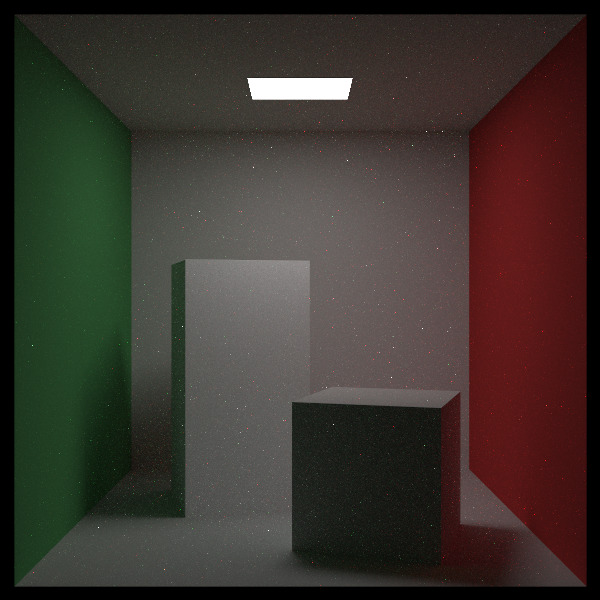
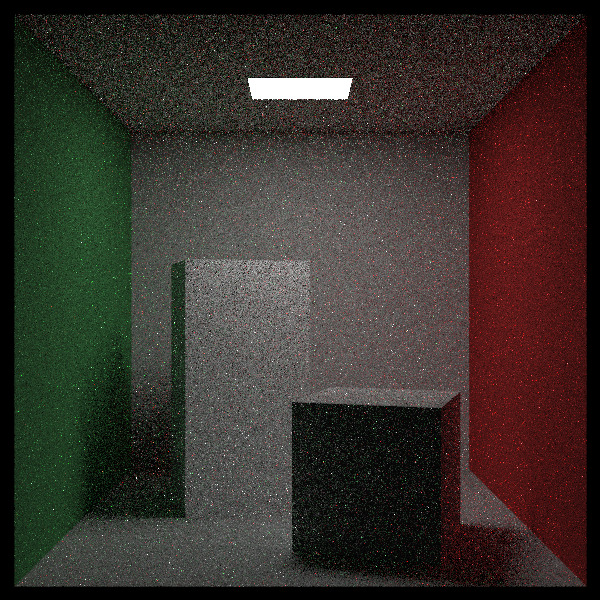
Updates from progression 3, 2024-0722

Changed region(s): [[0.03, 0.0, 0.99, 0.99], [0.15, 0.27, 0.18, 0.3], [0.12, 0.24, 0.15, 0.27]]

diff --git a/books/RayTracingTheRestOfYourLife.html b/books/RayTracingTheRestOfYourLife.html
@@ -1826,7 +1826,7 @@ You should get a very similar result to before, only with slightly more noise, i
 see.
 
   ![<span class='num'>Image 4:</span> Cornell box, with imperfect PDF
-  ](../images/img-3.04-cornell-refactor2.jpg class='pixel')
+  ](../images/img-3.04-cornell-imperfect.jpg class='pixel')
 
 Make sure to return the PDF to the scattering PDF.
 
@@ -1878,7 +1878,6 @@ PDF:
             return true;
         }
 
-
         double scattering_pdf(const ray& r_in, const hit_record& rec, const ray& scattered)
         const override {
     ~~~~~~~~~~~~~~~~~~~~~~~~~~~~~~~~~~~~~~~~~~~~~~~~~~~~~~~~~~~~~~~~~~~~~~~~~~~~~~~~~~ C++ highlight
@@ -1895,7 +1894,7 @@ our uniform PDF that was an imperfect match for Lambertian diffuse is actually a
 our uniform hemispherical diffuse. When rendering, we should get a slightly different image.
 
   ![<span class='num'>Image 5:</span> Cornell box, with uniform hemispherical sampling
-  ](../images/img-3.04-cornell-refactor2.jpg class='pixel')
+  ](../images/img-3.05-cornell-uniform-hemi.jpg class='pixel')
 
 It’s pretty close to our old picture, but there are differences that are not just noise. The front
 of the tall box is much more uniform in color. If you aren't sure what the best sampling pattern for
@@ -2409,7 +2408,7 @@ And here we add the accompanying changes to the camera class:
             ray scattered;
             color attenuation;
     ~~~~~~~~~~~~~~~~~~~~~~~~~~~~~~~~~~~~~~~~~~~~~~~~~~~~~~~~~~~~~~~~~~~~~~~~~~~~~~~~~~ C++ highlight
-            double pdf_value; // TODO: What are we supposed to do with the returned PDF?
+            double pdf_value;
     ~~~~~~~~~~~~~~~~~~~~~~~~~~~~~~~~~~~~~~~~~~~~~~~~~~~~~~~~~~~~~~~~~~~~~~~~~~~~~~~~~~~~~~~~~~~~ C++
             color color_from_emission = rec.mat->emitted(rec.u, rec.v, rec.p);
 
@@ -2418,6 +2417,11 @@ And here we add the accompanying changes to the camera class:
             if (!rec.mat->scatter(r, rec, attenuation, scattered, pdf_value))
     ~~~~~~~~~~~~~~~~~~~~~~~~~~~~~~~~~~~~~~~~~~~~~~~~~~~~~~~~~~~~~~~~~~~~~~~~~~~~~~~~~~~~~~~~~~~~ C++
                 return color_from_emission;
+
+            double scattering_pdf = rec.mat->scattering_pdf(r, rec, scattered);
+    ~~~~~~~~~~~~~~~~~~~~~~~~~~~~~~~~~~~~~~~~~~~~~~~~~~~~~~~~~~~~~~~~~~~~~~~~~~~~~~~~~~ C++ highlight
+            pdf_value = scattering_pdf;
+    ~~~~~~~~~~~~~~~~~~~~~~~~~~~~~~~~~~~~~~~~~~~~~~~~~~~~~~~~~~~~~~~~~~~~~~~~~~~~~~~~~~~~~~~~~~~~ C++
 
             ...
         }
@@ -2550,7 +2554,7 @@ check that we got the math and concept right:
 
             ray scattered;
             color attenuation;
-            double pdf_value; // TODO: What are we supposed to do with the returned PDF?
+            double pdf_value;
             color color_from_emission = rec.mat->emitted(rec.u, rec.v, rec.p);
 
             if (!rec.mat->scatter(r, rec, attenuation, scattered, pdf_value))
@@ -2814,7 +2818,7 @@ We can try this cosine PDF in the `ray_color()` function:
 
             ray scattered;
             color attenuation;
-            double pdf_value; // TODO: What are we supposed to do with the returned PDF?
+            double pdf_value;
             color color_from_emission = rec.mat->emitted(r, rec, rec.u, rec.v, rec.p);
 
             if (!rec.mat->scatter(r, rec, attenuation, scattered, pdf_value))
@@ -2885,6 +2889,8 @@ Now we can try sampling directions toward a `hittable`, like the light.
 
     ...
 
+
+    ~~~~~~~~~~~~~~~~~~~~~~~~~~~~~~~~~~~~~~~~~~~~~~~~~~~~~~~~~~~~~~~~~~~~~~~~~~~~~~~~~~ C++ highlight
     class hittable_pdf : public pdf {
       public:
         hittable_pdf(const hittable& objects, const point3& origin)
@@ -3050,7 +3056,7 @@ Add a `lights` parameter to the camera `render()` function:
 
             ray scattered;
             color attenuation;
-            double pdf_value; // TODO: What are we supposed to do with the returned PDF?
+            double pdf_value;
             color color_from_emission = rec.mat->emitted(r, rec, rec.u, rec.v, rec.p);
 
             if (!rec.mat->scatter(r, rec, attenuation, scattered, pdf_value))
@@ -3058,7 +3064,7 @@ Add a `lights` parameter to the camera `render()` function:
 
 
     ~~~~~~~~~~~~~~~~~~~~~~~~~~~~~~~~~~~~~~~~~~~~~~~~~~~~~~~~~~~~~~~~~~~~~~~~~~~~~~~~~~ C++ highlight
-            hittable_pdf light_pdf(light_ptr, rec.p);
+            hittable_pdf light_pdf(lights, rec.p);
             scattered = ray(rec.p, light_pdf.generate(), r.time());
             pdf_value = light_pdf.value(scattered.direction());
     ~~~~~~~~~~~~~~~~~~~~~~~~~~~~~~~~~~~~~~~~~~~~~~~~~~~~~~~~~~~~~~~~~~~~~~~~~~~~~~~~~~~~~~~~~~~~ C++
@@ -3100,6 +3106,15 @@ Create a light in the middle of the ceiling:
     ~~~~~~~~~~~~~~~~~~~~~~~~~~~~~~~~~~~~~~~~~~~~~~~~~~~~~~~~~~~~~~~~~~~~~~~~~~~~~~~~~~~~~~~~~~~~ C++
 
         camera cam;
+
+        cam.aspect_ratio      = 1.0;
+        cam.image_width       = 600;
+    ~~~~~~~~~~~~~~~~~~~~~~~~~~~~~~~~~~~~~~~~~~~~~~~~~~~~~~~~~~~~~~~~~~~~~~~~~~~~~~~~~~ C++ highlight
+        cam.samples_per_pixel = 10;
+    ~~~~~~~~~~~~~~~~~~~~~~~~~~~~~~~~~~~~~~~~~~~~~~~~~~~~~~~~~~~~~~~~~~~~~~~~~~~~~~~~~~~~~~~~~~~~ C++
+        cam.max_depth         = 50;
+        cam.background        = color(0,0,0);
+
         ...
 
 
@@ -3219,7 +3234,7 @@ plug it into `ray_color()`:
 
 
     ~~~~~~~~~~~~~~~~~~~~~~~~~~~~~~~~~~~~~~~~~~~~~~~~~~~~~~~~~~~~~~~~~~~~~~~~~~~~~~~~~~ C++ highlight
-            auto p0 = make_shared<hittable_pdf>(light_ptr, rec.p);
+            auto p0 = make_shared<hittable_pdf>(lights, rec.p);
             auto p1 = make_shared<cosine_pdf>(rec.normal);
             mixture_pdf mixed_pdf(p0, p1);
 
@@ -3240,7 +3255,7 @@ plug it into `ray_color()`:
 </div>
 
 <div class='together'>
-1000 samples per pixel yields:
+Updating `main.cc` to 1000 samples per pixel (not listed) yields:
 
   ![<span class='num'>Image 11:</span> Cornell box, mixture density of cosine and light sampling
   ](../images/img-3.11-cosine-and-light.jpg class='pixel')
@@ -3326,6 +3341,15 @@ this ray is diffuse or specular. Fortunately, we have decided that we should onl
 
 <div class='together'>
 We can redesign `material` and stuff all the new arguments into a class like we did for `hittable`:
+
+    ~~~~~~~~~~~~~~~~~~~~~~~~~~~~~~~~~~~~~~~~~~~~~~~~~~~~~~~~~~~~~~~~~~~~~~~~~~~~~~~~~~~~~~~~~~~~ C++
+    #include "rtweekend.h"
+
+    #include "onb.h"
+    #include "texture.h"
+
+    class hit_record;
+
 
     ~~~~~~~~~~~~~~~~~~~~~~~~~~~~~~~~~~~~~~~~~~~~~~~~~~~~~~~~~~~~~~~~~~~~~~~~~~~~~~~~~~ C++ highlight
     class scatter_record {
@@ -3528,8 +3552,6 @@ and dielectric materials are easy to fix.
         color albedo;
         double fuzz;
     };
-
-    ...
 
     class dielectric : public material {
       public:
@@ -3735,6 +3757,8 @@ The sphere class needs the two PDF-related functions:
       public:
         ...
 
+        aabb bounding_box() const override { return bbox; }
+
 
     ~~~~~~~~~~~~~~~~~~~~~~~~~~~~~~~~~~~~~~~~~~~~~~~~~~~~~~~~~~~~~~~~~~~~~~~~~~~~~~~~~~ C++ highlight
         double pdf_value(const point3& origin, const vec3& direction) const override {
@@ -3836,6 +3860,8 @@ think both tactics would work fine, but I will go with instrumenting `hittable_l
       public:
         ...
 
+        aabb bounding_box() const override { return bbox; }
+
 
     ~~~~~~~~~~~~~~~~~~~~~~~~~~~~~~~~~~~~~~~~~~~~~~~~~~~~~~~~~~~~~~~~~~~~~~~~~~~~~~~~~~ C++ highlight
         double pdf_value(const point3& origin, const vec3& direction) const override {
@@ -3872,7 +3898,7 @@ We assemble a list of light sources to pass to `camera::render()`:
         hittable_list lights;
         lights.add(
             make_shared<quad>(point3(343,554,332), vec3(-130,0,0), vec3(0,0,-105), empty_material));
-        lights.add(make_shared<sphere>(point3(190, 90, 190), 90, m));
+        lights.add(make_shared<sphere>(point3(190, 90, 190), 90, empty_material));
     ~~~~~~~~~~~~~~~~~~~~~~~~~~~~~~~~~~~~~~~~~~~~~~~~~~~~~~~~~~~~~~~~~~~~~~~~~~~~~~~~~~~~~~~~~~~~ C++
 
         ...

diff --git a/src/TheRestOfYourLife/main.cc b/src/TheRestOfYourLife/main.cc
@@ -47,10 +47,11 @@ int main() {
     world.add(make_shared<sphere>(point3(190,90,190), 90, glass));
 
     // Light Sources
+    auto empty_material = shared_ptr<material>();
     hittable_list lights;
-    auto m = shared_ptr<material>();
-    lights.add(make_shared<quad>(point3(343,554,332), vec3(-130,0,0), vec3(0,0,-105), m));
-    lights.add(make_shared<sphere>(point3(190, 90, 190), 90, m));
+    lights.add(
+        make_shared<quad>(point3(343,554,332), vec3(-130,0,0), vec3(0,0,-105), empty_material));
+    lights.add(make_shared<sphere>(point3(190, 90, 190), 90, empty_material));
 
     camera cam;
 
